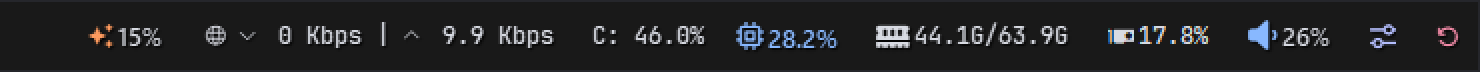
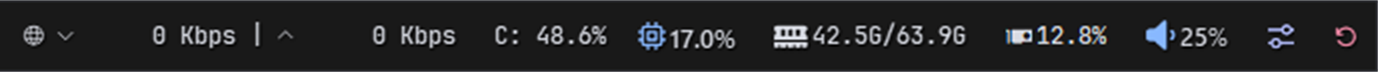
v2.0.3: Claude no centro, apps genéricos, README e prints novos
- claude_usage passa para o centro, à esquerda do relógio.
- Versão pública vem com atalhos de apps genéricos (Explorador, Bloco
  de Notas, Paint, Calculadora); o publicar.ps1 troca a lista do autor
  e cancela se o caminho da pasta de usuário aparecer nos arquivos.
- README refeito com as novas posições, como trocar os apps e como
  atualizar de uma versão anterior.
- Prints novos da barra em docs/img/.

Changed region(s): [[0.0, 0.0, 1.0, 1.0]]

diff --git a/README.md b/README.md
@@ -8,6 +8,8 @@ Escura, limpa, toda em português, com monitoramento do sistema, mídia, clima e
 > Este guia foi escrito para quem **nunca mexeu com o YASB**. Siga os passos na ordem e a barra vai funcionar.
 > Se algo der errado, veja [Solução de problemas](docs/problemas.md).
 
+> 🆕 **Novidades da v2.0.3:** o contador do Claude foi para o centro da barra, os atalhos de apps agora vêm com programas que todo Windows tem e o monitor de rede tem largura fixa. Veja o [CHANGELOG](CHANGELOG.md).
+
 ---
 
 ## O que tem na barra
@@ -19,9 +21,9 @@ Escura, limpa, toda em português, com monitoramento do sistema, mídia, clima e
 | | Widget | O que faz |
 |---|---|---|
 | 📂 | **Menu inicial** | Atalhos para as suas pastas, Configurações e Gerenciador de Tarefas |
-| ⏯ | **Mídia** | Música/vídeo tocando agora, com anterior, play/pause e próxima |
-| 〰 | **Visualizador de áudio** | Barrinhas que dançam com o som (somem quando está em silêncio) |
-| 🚀 | **Aplicativos** | Botões para abrir seus programas favoritos |
+| ⏯ | **Mídia** | Música ou vídeo tocando agora, com anterior, play/pause e próxima |
+| 〰 | **Visualizador de áudio** | Barrinhas que dançam com o som (somem no silêncio) |
+| 🚀 | **Aplicativos** | Atalhos para programas. Vêm com Explorador de Arquivos, Bloco de Notas, Paint e Calculadora; troque pelos seus ([veja como](#seus-aplicativos)) |
 
 **Centro**
 
@@ -29,6 +31,7 @@ Escura, limpa, toda em português, com monitoramento do sistema, mídia, clima e
 
 | | Widget | O que faz |
 |---|---|---|
+| ✨ | **Claude Usage** | Quanto você já usou dos limites do Claude Code; clique para ver os detalhes (opcional) |
 | 🕐 | **Relógio** | Data e hora; clique para abrir o calendário com feriados do Brasil |
 | ⛅ | **Clima** | Temperatura atual; clique para ver a previsão hora a hora |
 
@@ -38,8 +41,7 @@ Escura, limpa, toda em português, com monitoramento do sistema, mídia, clima e
 
 | | Widget | O que faz |
 |---|---|---|
-| ✨ | **Claude Usage** | Uso dos limites do Claude Code (opcional) |
-| 🌐 | **Rede** | Velocidade de download e upload |
+| 🌐 | **Rede** | Velocidade de download e upload, com largura fixa para não empurrar os outros widgets |
 | 💽 | **Disco** | Uso do disco C:; clique para ver todos os discos |
 | 🧠 | **CPU / Memória / GPU** | Uso do processador, da RAM e da placa de vídeo, com gráficos ao clicar |
 | 🔊 | **Volume** | Volume geral e por aplicativo |
@@ -140,8 +142,19 @@ Abra os arquivos com qualquer editor de texto (o Bloco de Notas serve; o [VS Cod
 
 ### Seus aplicativos
 
-No `config.yaml`, procure por `app_list:` e troque os caminhos pelos programas instalados no seu PC.
-Para achar o caminho, clique com o botão direito no atalho do programa → **Abrir local do arquivo**.
+A barra já vem com quatro atalhos que funcionam em qualquer Windows. Para colocar os seus programas, abra o `config.yaml` e procure por `app_list:`. Cada linha é um botão:
+
+```yaml
+app_list:
+  - {icon: "\udb80\ude4b", launch: "explorer.exe"}  # Explorador de Arquivos
+  - {icon: "\udb82\udc2e", launch: "notepad.exe"}   # Bloco de Notas
+  - {icon: "\udb80\udfd8", launch: "mspaint.exe"}   # Paint
+  - {icon: "\udb80\udcec", launch: "calc.exe"}      # Calculadora
+```
+
+- **`launch`**: o caminho do programa. Para achar, clique com o botão direito no atalho do programa → **Abrir local do arquivo**, e copie o caminho do `.exe` trocando `\` por `/`. Exemplo: `"C:/Program Files (x86)/Steam/steam.exe"`.
+- **`icon`**: o ícone, escrito como código. Procure um no [site do Nerd Fonts](https://www.nerdfonts.com/cheat-sheet). Para ícones de código curto (4 dígitos, ex.: `f1b6`), escreva `"\uf1b6"`. Os de 5 dígitos (`f0a1e` e parecidos) precisam de dois códigos; veja como em [Trocar ícones](docs/personalizacao.md#trocar-ícones).
+- Quer menos ou mais botões? Apague ou copie uma linha, mantendo os mesmos espaços no começo.
 
 ### Suas pastas
 
@@ -156,7 +169,20 @@ No `config.yaml`, em `widgets:` (dentro de `bars:`), cada widget é uma linha. C
 #"wallpapers",  # desligado
 ```
 
+Não usa o Claude Code? Coloque um `#` na frente de `"claude_usage",`, na lista do centro.
+
 Mais personalizações (cores, ícones, monitor, posição) estão em [docs/personalizacao.md](docs/personalizacao.md).
+
+---
+
+## Atualizando de uma versão anterior
+
+1. Faça uma cópia da sua pasta `%USERPROFILE%\.config\yasb`.
+2. Copie o `config.yaml` e o `styles.css` novos por cima dos antigos. **Não** substitua o seu `.env`: ele guarda a sua chave do clima e as suas pastas.
+3. Refaça os ajustes que você tinha feito (cidade, apps, widgets ligados).
+4. Rode `yasbc reload`.
+
+> 💡 Usa um `config.yaml` antigo, seu? No YASB v2.0.8 ou mais novo, o comando `yasbc migrate-config` mostra as opções que não existem mais e se oferece para removê-las. Antes de gravar, ele pede confirmação e salva uma cópia em `config.yaml.bak`.
 
 ---
 

diff --git a/docs/widgets.md b/docs/widgets.md
@@ -27,9 +27,9 @@ widgets:
 | `media` | esq. | Menu do player | Alterna o texto | Play/pause | Nada |
 | `audio_visualizer` | esq. | — | — | — | Nada |
 | `apps` | esq. | Abre o programa | — | — | Caminhos dos **seus** programas em `app_list` |
+| `claude_usage` | centro | Popup de uso | — | 5 horas ↔ 7 dias | [Claude Code](https://claude.com/claude-code) instalado e logado |
 | `clock` | centro | Calendário | Próximo fuso horário | Alterna o texto | Nada |
 | `weather` | centro | Previsão detalhada | — | Alterna o texto | `WEATHERAPI_KEY` no `.env` e sua cidade em `location` |
-| `claude_usage` | dir. | Popup de uso | — | 5 horas ↔ 7 dias | [Claude Code](https://claude.com/claude-code) instalado e logado |
 | `traffic` | dir. | Menu de rede | — | Alterna o texto | Nada |
 | `disk` | dir. | Todos os discos | Alterna o texto | Abre o C: no Explorer | Nada (edite as letras em `volume_labels`) |
 | `cpu` | dir. | Gráfico de uso | Gerenciador de Tarefas | Alterna o texto | Nada |
@@ -39,7 +39,7 @@ widgets:
 | `control_center` | dir. | Central de controle | — | — | Nada |
 | `power_menu` | dir. | Reiniciar / Desligar | — | — | Nada |
 
-> **Não usa Claude Code?** Apague a linha `"claude_usage",` da lista do lado direito.
+> **Não usa Claude Code?** Apague a linha `"claude_usage",` da lista do centro (`center`).
 
 ---
 

diff --git a/CHANGELOG.md b/CHANGELOG.md
@@ -1,5 +1,14 @@
 # Changelog
 
+## v2.0.3 (novembro de 2026)
+
+### Mudado
+- O contador de uso do Claude (`claude_usage`) saiu da direita e foi para o centro da barra, à esquerda do relógio.
+- Atalhos de apps ao lado do player agora são programas que vêm em qualquer Windows: Explorador de Arquivos, Bloco de Notas, Paint e Calculadora. Para usar os seus, troque os itens de `app_list` no widget `apps` pelo caminho do `.exe` de cada programa.
+- `ferramentas/publicar.ps1` troca os atalhos de apps do autor pelos genéricos acima e cancela a publicação se o caminho da pasta de usuário (`C:\Users\<você>`) aparecer nos arquivos.
+- README refeito: novas posições dos widgets, como trocar os atalhos de apps pelos seus programas e como atualizar a partir de uma versão anterior.
+- Prints novos da barra em `docs/img/`.
+
 ## v2.0.2 (novembro de 2026)
 
 ### Atualizado para o YASB v2.0.8
